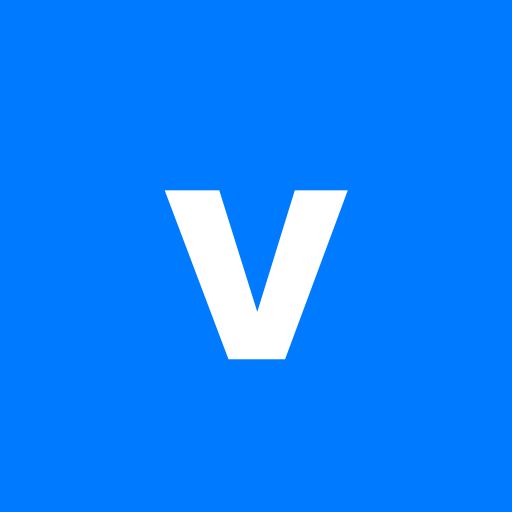
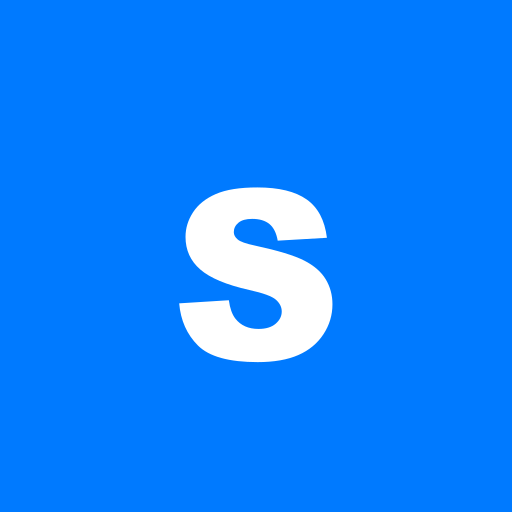
Rebrand: VoteCoop -> Spilka + CNAME spilka.top
- Replace 'VoteCoop' with 'Spilka' in user-facing strings:
  index.html (title, apple-mobile-web-app-title, auth/register h1,
  instructions header), manifest.json (name + short_name + description),
  offline.html, all install/instruction copy in UK/EN/RU translations,
  in-app document title.
- Regenerate PWA icons with letter 'S' instead of 'V' (same brand-blue
  full-bleed background that fixed the white-corners issue).
- Add CNAME file 'spilka.top' for GitHub Pages custom domain.
- Bump SW cache name votecoop-v7 -> spilka-v1 so installed PWAs replace
  the cached old assets on next open.

Internal identifiers (localStorage keys vc_groups/vc_notifications/
votecoop-language/votecoop-theme, repo name, supabase function names)
intentionally kept to avoid breaking existing user data.

Changed region(s): [[0.3125, 0.3438, 0.6875, 0.7188]]

diff --git a/js/app.js b/js/app.js
@@ -1,4 +1,4 @@
-// VoteCoop App
+// Spilka App
 const app = {
     state: {
         user: null,
@@ -1278,7 +1278,7 @@ const app = {
         const btn = document.getElementById('install-app-btn');
         if (btn) btn.classList.add('hidden');
         const t = this.translations[this.currentLanguage] || {};
-        this.toastSuccess(t.install_thanks || 'Дякуємо! Тепер VoteCoop на головному екрані.');
+        this.toastSuccess(t.install_thanks || 'Дякуємо! Тепер Spilka на головному екрані.');
     },
 
     async installApp() {
@@ -2828,7 +2828,7 @@ const app = {
             theme_light: 'Світла',
             theme_dark: 'Темна',
             install_app: 'Встановити на головний екран',
-            install_thanks: 'Дякуємо! VoteCoop встановлено на головному екрані.',
+            install_thanks: 'Дякуємо! Spilka встановлено на головному екрані.',
             install_already: 'Додаток уже встановлено',
             install_ios_hint: 'На iPhone/iPad: натисніть «Поділитися» (квадрат зі стрілкою) і виберіть «На екран Домівка».',
             install_not_ready: 'Опція встановлення поки недоступна. Перевірте, що сторінку відкрито через HTTPS — і спробуйте знову.',
@@ -2936,7 +2936,7 @@ const app = {
             yes: 'За',
             no: 'Проти',
             participation: 'участі',
-            instructions_title: 'Як користуватися VoteCoop',
+            instructions_title: 'Як користуватися Spilka',
             instr_quick_start: 'Швидкий старт',
             instr_qs_step1: '1. <strong>Увійдіть</strong> через Google-акаунт',
             instr_qs_step2: '2. <strong>Заповніть профіль</strong> — вкажіть ім\'я, прізвище, телефон та номер квартири/ділянки (обов\'язково для голосування)',
@@ -3168,7 +3168,7 @@ const app = {
             theme_light: 'Light',
             theme_dark: 'Dark',
             install_app: 'Install on home screen',
-            install_thanks: 'Thanks! VoteCoop is now on your home screen.',
+            install_thanks: 'Thanks! Spilka is now on your home screen.',
             install_already: 'App is already installed',
             install_ios_hint: 'On iPhone/iPad: tap "Share" (square with arrow) and choose "Add to Home Screen".',
             install_not_ready: 'Install option is not available right now. Make sure you opened the page via HTTPS and try again.',
@@ -3276,7 +3276,7 @@ const app = {
             yes: 'Yes',
             no: 'No',
             participation: 'participation',
-            instructions_title: 'How to use VoteCoop',
+            instructions_title: 'How to use Spilka',
             instr_quick_start: 'Quick Start',
             instr_qs_step1: '1. <strong>Sign in</strong> with your Google account',
             instr_qs_step2: '2. <strong>Complete your profile</strong> — enter name, phone, and apartment/plot number (required to vote)',
@@ -3508,7 +3508,7 @@ const app = {
             theme_light: 'Светлая',
             theme_dark: 'Тёмная',
             install_app: 'Установить на главный экран',
-            install_thanks: 'Спасибо! VoteCoop теперь на главном экране.',
+            install_thanks: 'Спасибо! Spilka теперь на главном экране.',
             install_already: 'Приложение уже установлено',
             install_ios_hint: 'На iPhone/iPad: нажмите «Поделиться» (квадрат со стрелкой) и выберите «На экран Домой».',
             install_not_ready: 'Опция установки сейчас недоступна. Проверьте, что страница открыта через HTTPS — и попробуйте снова.',
@@ -3616,7 +3616,7 @@ const app = {
             yes: 'За',
             no: 'Против',
             participation: 'участия',
-            instructions_title: 'Как пользоваться VoteCoop',
+            instructions_title: 'Как пользоваться Spilka',
             instr_quick_start: 'Быстрый старт',
             instr_qs_step1: '1. <strong>Войдите</strong> через Google-аккаунт',
             instr_qs_step2: '2. <strong>Заполните профиль</strong> — укажите имя, фамилию, телефон и номер квартиры/участка (обязательно для голосования)',
@@ -3996,9 +3996,9 @@ const app = {
 
         // Update document title
         const titles = {
-            uk: 'VoteCoop - Голосування для спільнот',
-            en: 'VoteCoop - Voting for communities',
-            ru: 'VoteCoop - Голосования для сообществ'
+            uk: 'Spilka - Голосування для спільнот',
+            en: 'Spilka - Voting for communities',
+            ru: 'Spilka - Голосования для сообществ'
         };
         document.title = titles[lang];
 

diff --git a/index.html b/index.html
@@ -3,13 +3,13 @@
 <head>
     <meta charset="UTF-8">
     <meta name="viewport" content="width=device-width, initial-scale=1.0, viewport-fit=cover">
-    <title>VoteCoop - Голосування для спільнот</title>
+    <title>Spilka - Голосування для спільнот</title>
 
     <!-- PWA Meta Tags -->
     <meta name="theme-color" content="#007aff">
     <meta name="apple-mobile-web-app-capable" content="yes">
     <meta name="apple-mobile-web-app-status-bar-style" content="black-translucent">
-    <meta name="apple-mobile-web-app-title" content="VoteCoop">
+    <meta name="apple-mobile-web-app-title" content="Spilka">
     <link rel="manifest" href="manifest.json">
     <link rel="icon" type="image/png" sizes="192x192" href="icons/icon-192.png">
     <link rel="apple-touch-icon" href="icons/apple-touch-icon.png">
@@ -47,7 +47,7 @@
             <div class="auth-container">
                 <div class="logo">
                     <div class="logo-icon"><i class="ph ph-scales"></i></div>
-                    <h1>VoteCoop</h1>
+                    <h1>Spilka</h1>
                 </div>
                 <div class="loading-spinner"></div>
             </div>
@@ -70,7 +70,7 @@
                 <div class="logo logo-inline">
                     <div class="logo-icon"><i class="ph ph-scales"></i></div>
                     <div class="logo-text">
-                        <h1>VoteCoop</h1>
+                        <h1>Spilka</h1>
                         <p data-lang="auth_subtitle">Голосування для спільнот</p>
                     </div>
                 </div>
@@ -771,7 +771,7 @@
             <div class="modal-overlay" onclick="app.hideModal('instructions-modal')"></div>
             <div class="modal-content modal-large">
                 <div class="modal-header">
-                    <h3 data-lang="instructions_title"><i class="ph ph-book-open-text"></i> Як користуватися VoteCoop</h3>
+                    <h3 data-lang="instructions_title"><i class="ph ph-book-open-text"></i> Як користуватися Spilka</h3>
                     <button class="btn-icon" onclick="app.hideModal('instructions-modal')" aria-label="Close">✕</button>
                 </div>
                 <div class="modal-body instructions-body" id="instructions-content">

diff --git a/offline.html b/offline.html
@@ -3,7 +3,7 @@
 <head>
     <meta charset="UTF-8">
     <meta name="viewport" content="width=device-width, initial-scale=1.0, viewport-fit=cover">
-    <title>VoteCoop — офлайн</title>
+    <title>Spilka — офлайн</title>
     <link rel="stylesheet" href="css/style.css">
     <script src="https://unpkg.com/@phosphor-icons/web"></script>
 </head>
@@ -14,7 +14,7 @@
                 <div class="logo">
                     <div class="logo-icon"><i class="ph ph-cloud-slash"></i></div>
                     <h1>Немає мережі</h1>
-                    <p>VoteCoop потребує підключення до інтернету для синхронізації даних.</p>
+                    <p>Spilka потребує підключення до інтернету для синхронізації даних.</p>
                 </div>
                 <button class="btn btn-primary" onclick="location.reload()" style="max-width:320px;">
                     <i class="ph ph-arrow-clockwise" aria-hidden="true"></i>

diff --git a/generate-icons.js b/generate-icons.js
@@ -43,7 +43,7 @@ function generateMaskableIcon(size, outputPath) {
     ctx.textAlign = 'center';
     ctx.textBaseline = 'middle';
     ctx.font = `900 ${Math.round(size * 0.46)}px Arial, "Segoe UI", sans-serif`;
-    ctx.fillText('V', size / 2, size / 2 + size * 0.02);
+    ctx.fillText('S', size / 2, size / 2 + size * 0.02);
 
     fs.writeFileSync(outputPath, canvas.toBuffer('image/png'));
     console.log(`maskable: ${outputPath} (${size}x${size})`);
@@ -62,7 +62,7 @@ function generateRoundedIcon(size, outputPath) {
     ctx.textAlign = 'center';
     ctx.textBaseline = 'middle';
     ctx.font = `900 ${Math.round(size * 0.46)}px Arial, "Segoe UI", sans-serif`;
-    ctx.fillText('V', size / 2, size / 2 + size * 0.02);
+    ctx.fillText('S', size / 2, size / 2 + size * 0.02);
 
     fs.writeFileSync(outputPath, canvas.toBuffer('image/png'));
     console.log(`rounded:  ${outputPath} (${size}x${size})`);

diff --git a/service-worker.js b/service-worker.js
@@ -1,7 +1,7 @@
 // VoteCoop service worker — relative paths so it works under any base URL
 // (root domain, GitHub Pages /votecoop/, or any sub-path).
 
-const CACHE_VERSION = 'votecoop-v7';
+const CACHE_VERSION = 'spilka-v1';
 const STATIC_CACHE  = `${CACHE_VERSION}-static`;
 const RUNTIME_CACHE = `${CACHE_VERSION}-runtime`;
 
